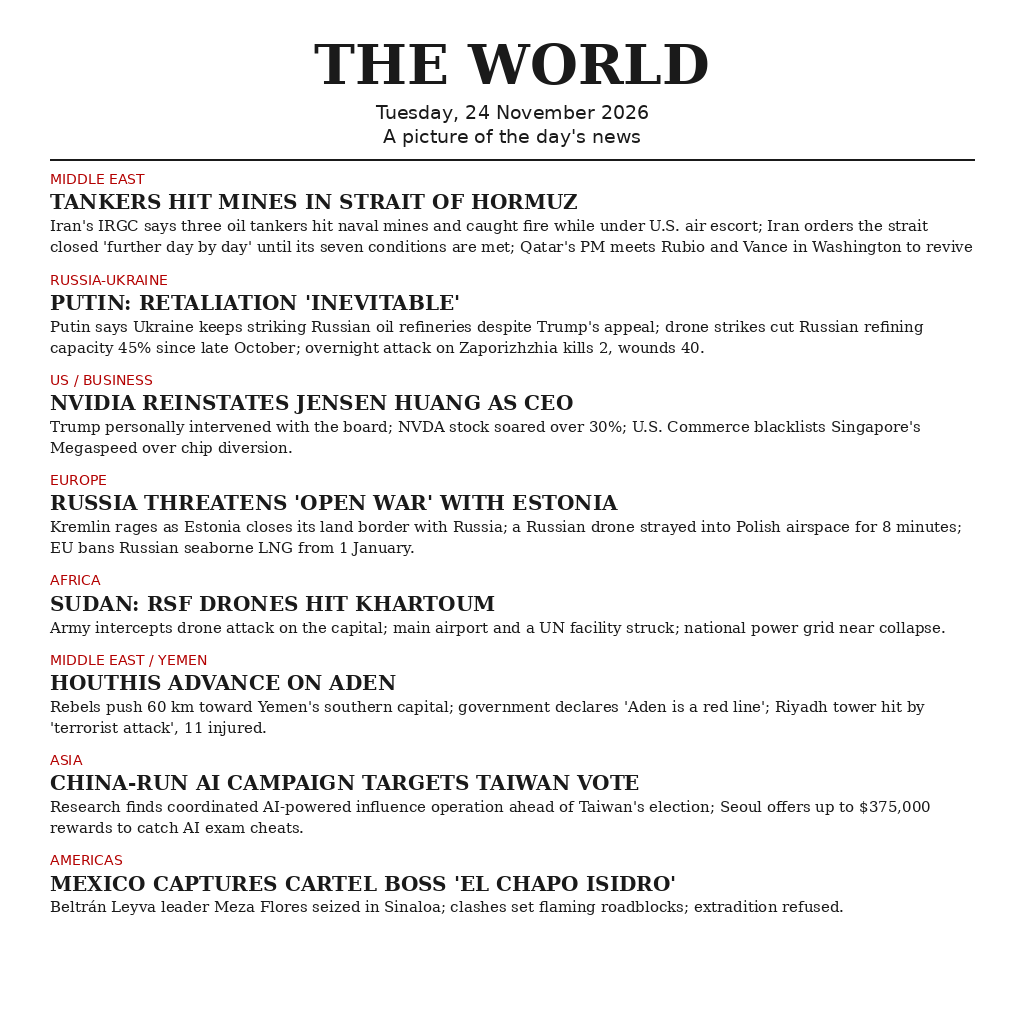
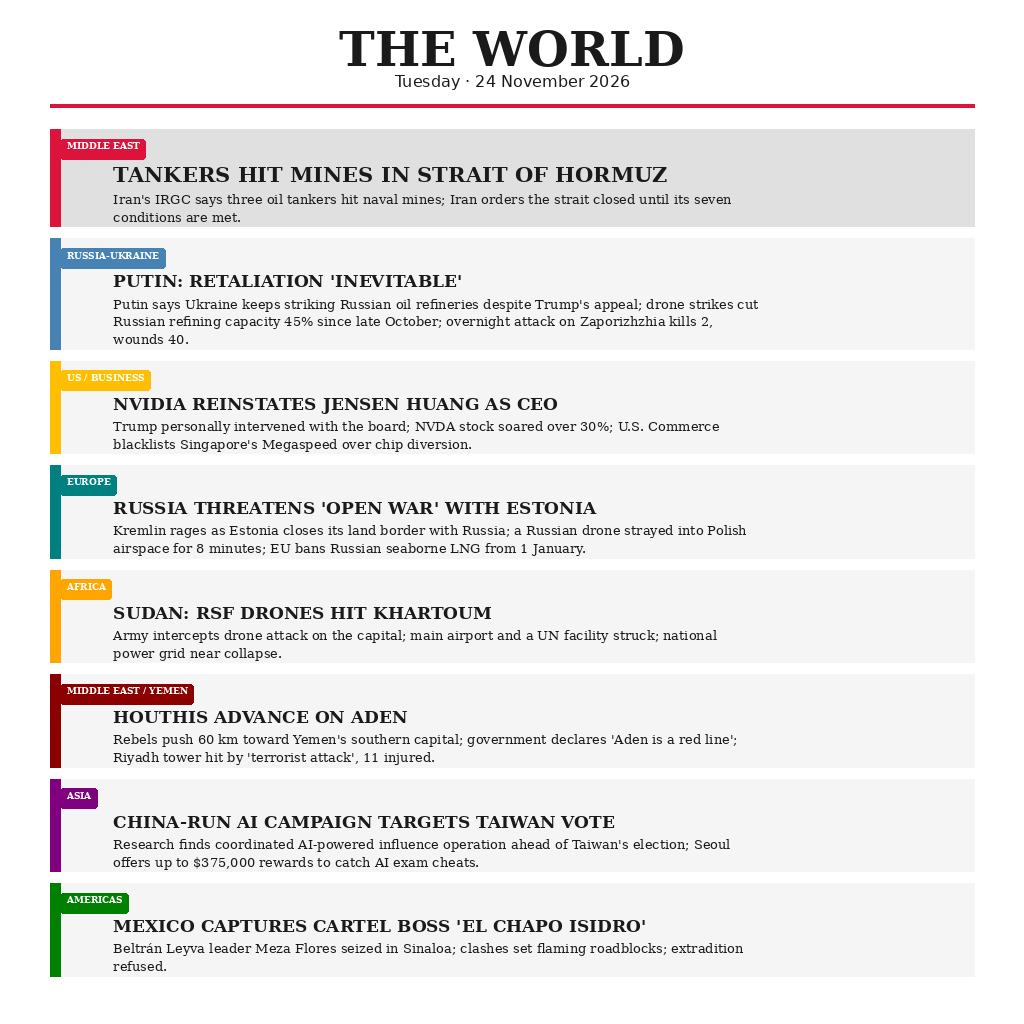
design v2: region chips, accent bars, filled page layout

Changed region(s): [[0.0312, 0.0312, 0.9688, 0.9688]]

diff --git a/render.py b/render.py
@@ -1,17 +1,15 @@
 from PIL import Image, ImageDraw, ImageFont
-import sys
 
 # Configuration
 WIDTH, HEIGHT = 1024, 1024
 BG_COLOR = "#ffffff"
 TEXT_COLOR = "#1a1a1a"
-TAG_COLOR = "#b30000"
 FONT_PATH = "/usr/share/fonts/truetype/dejavu/DejaVuSerif.ttf"
 BOLD_FONT_PATH = "/usr/share/fonts/truetype/dejavu/DejaVuSerif-Bold.ttf"
 SANS_FONT_PATH = "/usr/share/fonts/truetype/dejavu/DejaVuSans.ttf"
 
 STORIES = [
-    ("MIDDLE EAST", "TANKERS HIT MINES IN STRAIT OF HORMUZ", "Iran's IRGC says three oil tankers hit naval mines and caught fire while under U.S. air escort; Iran orders the strait closed 'further day by day' until its seven conditions are met; Qatar's PM meets Rubio and Vance in Washington to revive peace talks."),
+    ("MIDDLE EAST", "TANKERS HIT MINES IN STRAIT OF HORMUZ", "Iran's IRGC says three oil tankers hit naval mines; Iran orders the strait closed until its seven conditions are met."),
     ("RUSSIA-UKRAINE", "PUTIN: RETALIATION 'INEVITABLE'", "Putin says Ukraine keeps striking Russian oil refineries despite Trump's appeal; drone strikes cut Russian refining capacity 45% since late October; overnight attack on Zaporizhzhia kills 2, wounds 40."),
     ("US / BUSINESS", "NVIDIA REINSTATES JENSEN HUANG AS CEO", "Trump personally intervened with the board; NVDA stock soared over 30%; U.S. Commerce blacklists Singapore's Megaspeed over chip diversion."),
     ("EUROPE", "RUSSIA THREATENS 'OPEN WAR' WITH ESTONIA", "Kremlin rages as Estonia closes its land border with Russia; a Russian drone strayed into Polish airspace for 8 minutes; EU bans Russian seaborne LNG from 1 January."),
@@ -20,6 +18,14 @@ STORIES = [
     ("ASIA", "CHINA-RUN AI CAMPAIGN TARGETS TAIWAN VOTE", "Research finds coordinated AI-powered influence operation ahead of Taiwan's election; Seoul offers up to $375,000 rewards to catch AI exam cheats."),
     ("AMERICAS", "MEXICO CAPTURES CARTEL BOSS 'EL CHAPO ISIDRO'", "Beltrán Leyva leader Meza Flores seized in Sinaloa; clashes set flaming roadblocks; extradition refused.")
 ]
+
+def draw_chip(draw, x, y, text, color, font):
+    w = draw.textlength(text, font=font)
+    padding = 6
+    h = 18
+    draw.rounded_rectangle([x, y, x + w + 2*padding, y + h + 2], radius=3, fill=color)
+    draw.text((x + padding, y + 1), text, fill="white", font=font)
+    return x + w + 2*padding + 8 # return new x
 
 def get_wrapped_lines(text, font, max_width, draw):
     words = text.split()
@@ -40,80 +46,66 @@ def get_wrapped_lines(text, font, max_width, draw):
         lines.append(" ".join(current_line))
     return lines
 
-def get_layout(draw, scale):
-    fonts = {
-        "masthead": ImageFont.truetype(BOLD_FONT_PATH, int(70 * scale)),
-        "date": ImageFont.truetype(SANS_FONT_PATH, int(24 * scale)),
-        "cat": ImageFont.truetype(SANS_FONT_PATH, int(18 * scale)),
-        "headline": ImageFont.truetype(BOLD_FONT_PATH, int(26 * scale)),
-        "detail": ImageFont.truetype(FONT_PATH, int(20 * scale)),
-    }
-    
-    y = 50 * scale
-    max_w = WIDTH - 100
-    
-    # Masthead
-    y += 70 * scale
-    y += 30 * scale
-    y += 30 * scale
-    y += 10 * scale # Rule
-    
-    elements = []
-    
-    for i, (category, headline, detail) in enumerate(STORIES):
-        if i == 0:
-            y += 24 * scale
-        # Category
-        elements.append(("text", category, fonts["cat"], (50, y), TAG_COLOR))
-        y += 20 * scale * 1.2
-        
-        # Headline (max 2 lines)
-        h_lines = get_wrapped_lines(headline, fonts["headline"], max_w, draw)[:2]
-        for line in h_lines:
-            elements.append(("text", line, fonts["headline"], (50, y), TEXT_COLOR))
-            y += 28 * scale * 1.2
-        
-        # Detail (max 2 lines)
-        d_lines = get_wrapped_lines(detail, fonts["detail"], max_w, draw)[:2]
-        for line in d_lines:
-            elements.append(("text", line, fonts["detail"], (50, y), TEXT_COLOR))
-            y += 22 * scale * 1.2
-            
-        y += 15 * scale
-    
-    return elements, y
-
 def create_image():
     image = Image.new("RGB", (WIDTH, HEIGHT), BG_COLOR)
     draw = ImageDraw.Draw(image)
     
-    scale = 1.0
-    while scale > 0.5:
-        elements, y_end = get_layout(draw, scale)
-        if y_end < 978:
-            break
-        scale -= 0.05
+    scale = 0.81 # Adjusted to fit 8 stories
     
-    # Final Draw
+    # Fonts
     fonts = {
-        "masthead": ImageFont.truetype(BOLD_FONT_PATH, int(70 * scale)),
-        "date": ImageFont.truetype(SANS_FONT_PATH, int(24 * scale)),
-        "cat": ImageFont.truetype(SANS_FONT_PATH, int(18 * scale)),
-        "headline": ImageFont.truetype(BOLD_FONT_PATH, int(26 * scale)),
-        "detail": ImageFont.truetype(FONT_PATH, int(20 * scale)),
+        "masthead": ImageFont.truetype(BOLD_FONT_PATH, int(60 * scale)),
+        "date": ImageFont.truetype(SANS_FONT_PATH, int(20 * scale)),
+        "headline": ImageFont.truetype(BOLD_FONT_PATH, int(22 * scale)),
+        "lead_headline": ImageFont.truetype(BOLD_FONT_PATH, int(26 * scale)),
+        "detail": ImageFont.truetype(FONT_PATH, int(17 * scale)),
+        "chip": ImageFont.truetype(BOLD_FONT_PATH, int(12 * scale)),
     }
     
     # Masthead Draw
-    draw.text((WIDTH//2, 80 * scale), "THE WORLD", fill=TEXT_COLOR, font=fonts["masthead"], anchor="mm")
-    draw.text((WIDTH//2, 140 * scale), "Tuesday, 24 November 2026", fill=TEXT_COLOR, font=fonts["date"], anchor="mm")
-    draw.text((WIDTH//2, 170 * scale), "A picture of the day's news", fill=TEXT_COLOR, font=fonts["date"], anchor="mm")
-    draw.line((50, 200 * scale, 974, 200 * scale), fill=TEXT_COLOR, width=int(3 * scale))
+    draw.text((WIDTH//2, 60 * scale), "THE WORLD", fill=TEXT_COLOR, font=fonts["masthead"], anchor="mm")
+    date_str = "Tuesday · 24 November 2026"
+    draw.text((WIDTH//2, 100 * scale), date_str, fill=TEXT_COLOR, font=fonts["date"], anchor="mm")
+    draw.line((50, 130 * scale, 974, 130 * scale), fill="#dc143c", width=int(6 * scale))
     
-    for kind, text, font, pos, color in elements:
-        draw.text(pos, text, fill=color, font=font)
+    y = 160 * scale
+    
+    for i, (cat, head, det) in enumerate(STORIES):
+        accent_color = {"MIDDLE EAST": "#dc143c", "RUSSIA-UKRAINE": "#4682b4", "US / BUSINESS": "#ffbf00", "EUROPE": "#008080", "AFRICA": "#ffa500", "MIDDLE EAST / YEMEN": "#8b0000", "ASIA": "#800080", "AMERICAS": "#008000"}.get(cat, "#000000")
+        
+        # Block height based on position
+        is_lead = (i == 0)
+        h_font = fonts["lead_headline"] if is_lead else fonts["headline"]
+        h_lines = get_wrapped_lines(head, h_font, 800 * scale, draw)[:2]
+        d_lines = get_wrapped_lines(det, fonts["detail"], 800 * scale, draw)[:3]
+        
+        block_h = (len(h_lines) * (36 if is_lead else 30) + len(d_lines) * 22 + 40) * scale
+        
+        # Draw background and accent
+        bg_color = "#e0e0e0" if is_lead else "#f5f5f5"
+        draw.rectangle([50, y, 974, y + block_h], fill=bg_color)
+        draw.rectangle([50, y, 60, y + block_h], fill=accent_color)
+        
+        # Draw Chip
+        draw_chip(draw, 75 * scale, y + 12 * scale, cat, accent_color, fonts["chip"])
+        
+        # Draw Text
+        text_y = y + 40 * scale # lower text to make room for chip
+        for line in h_lines:
+            draw.text((140 * scale, text_y), line, fill=TEXT_COLOR, font=h_font)
+            text_y += (36 if is_lead else 30) * scale
+        for line in d_lines:
+            draw.text((140 * scale, text_y), line, fill=TEXT_COLOR, font=fonts["detail"])
+            text_y += 22 * scale
+            
+        y += block_h + 15 * scale
+    
+    # Assert layout
+    if y > (1024 - 30):
+        raise Exception(f"Layout exceeds page limit: y={y}")
         
     image.save("entry.png", "PNG", optimize=True)
-    print(f"Created entry.png with scale {scale:.2f}, height {y_end:.0f}")
+    print("Created entry.png")
 
 if __name__ == "__main__":
     create_image()

diff --git a/verify_size.py b/verify_size.py
@@ -1,0 +1,12 @@
+from PIL import Image
+
+def verify():
+    img = Image.open("entry.png")
+    if img.size != (1024, 1024):
+        print(f"FAILED: Expected 1024x1024, got {img.size}")
+        exit(1)
+    else:
+        print("SUCCESS: 1024x1024 confirmed")
+
+if __name__ == "__main__":
+    verify()
